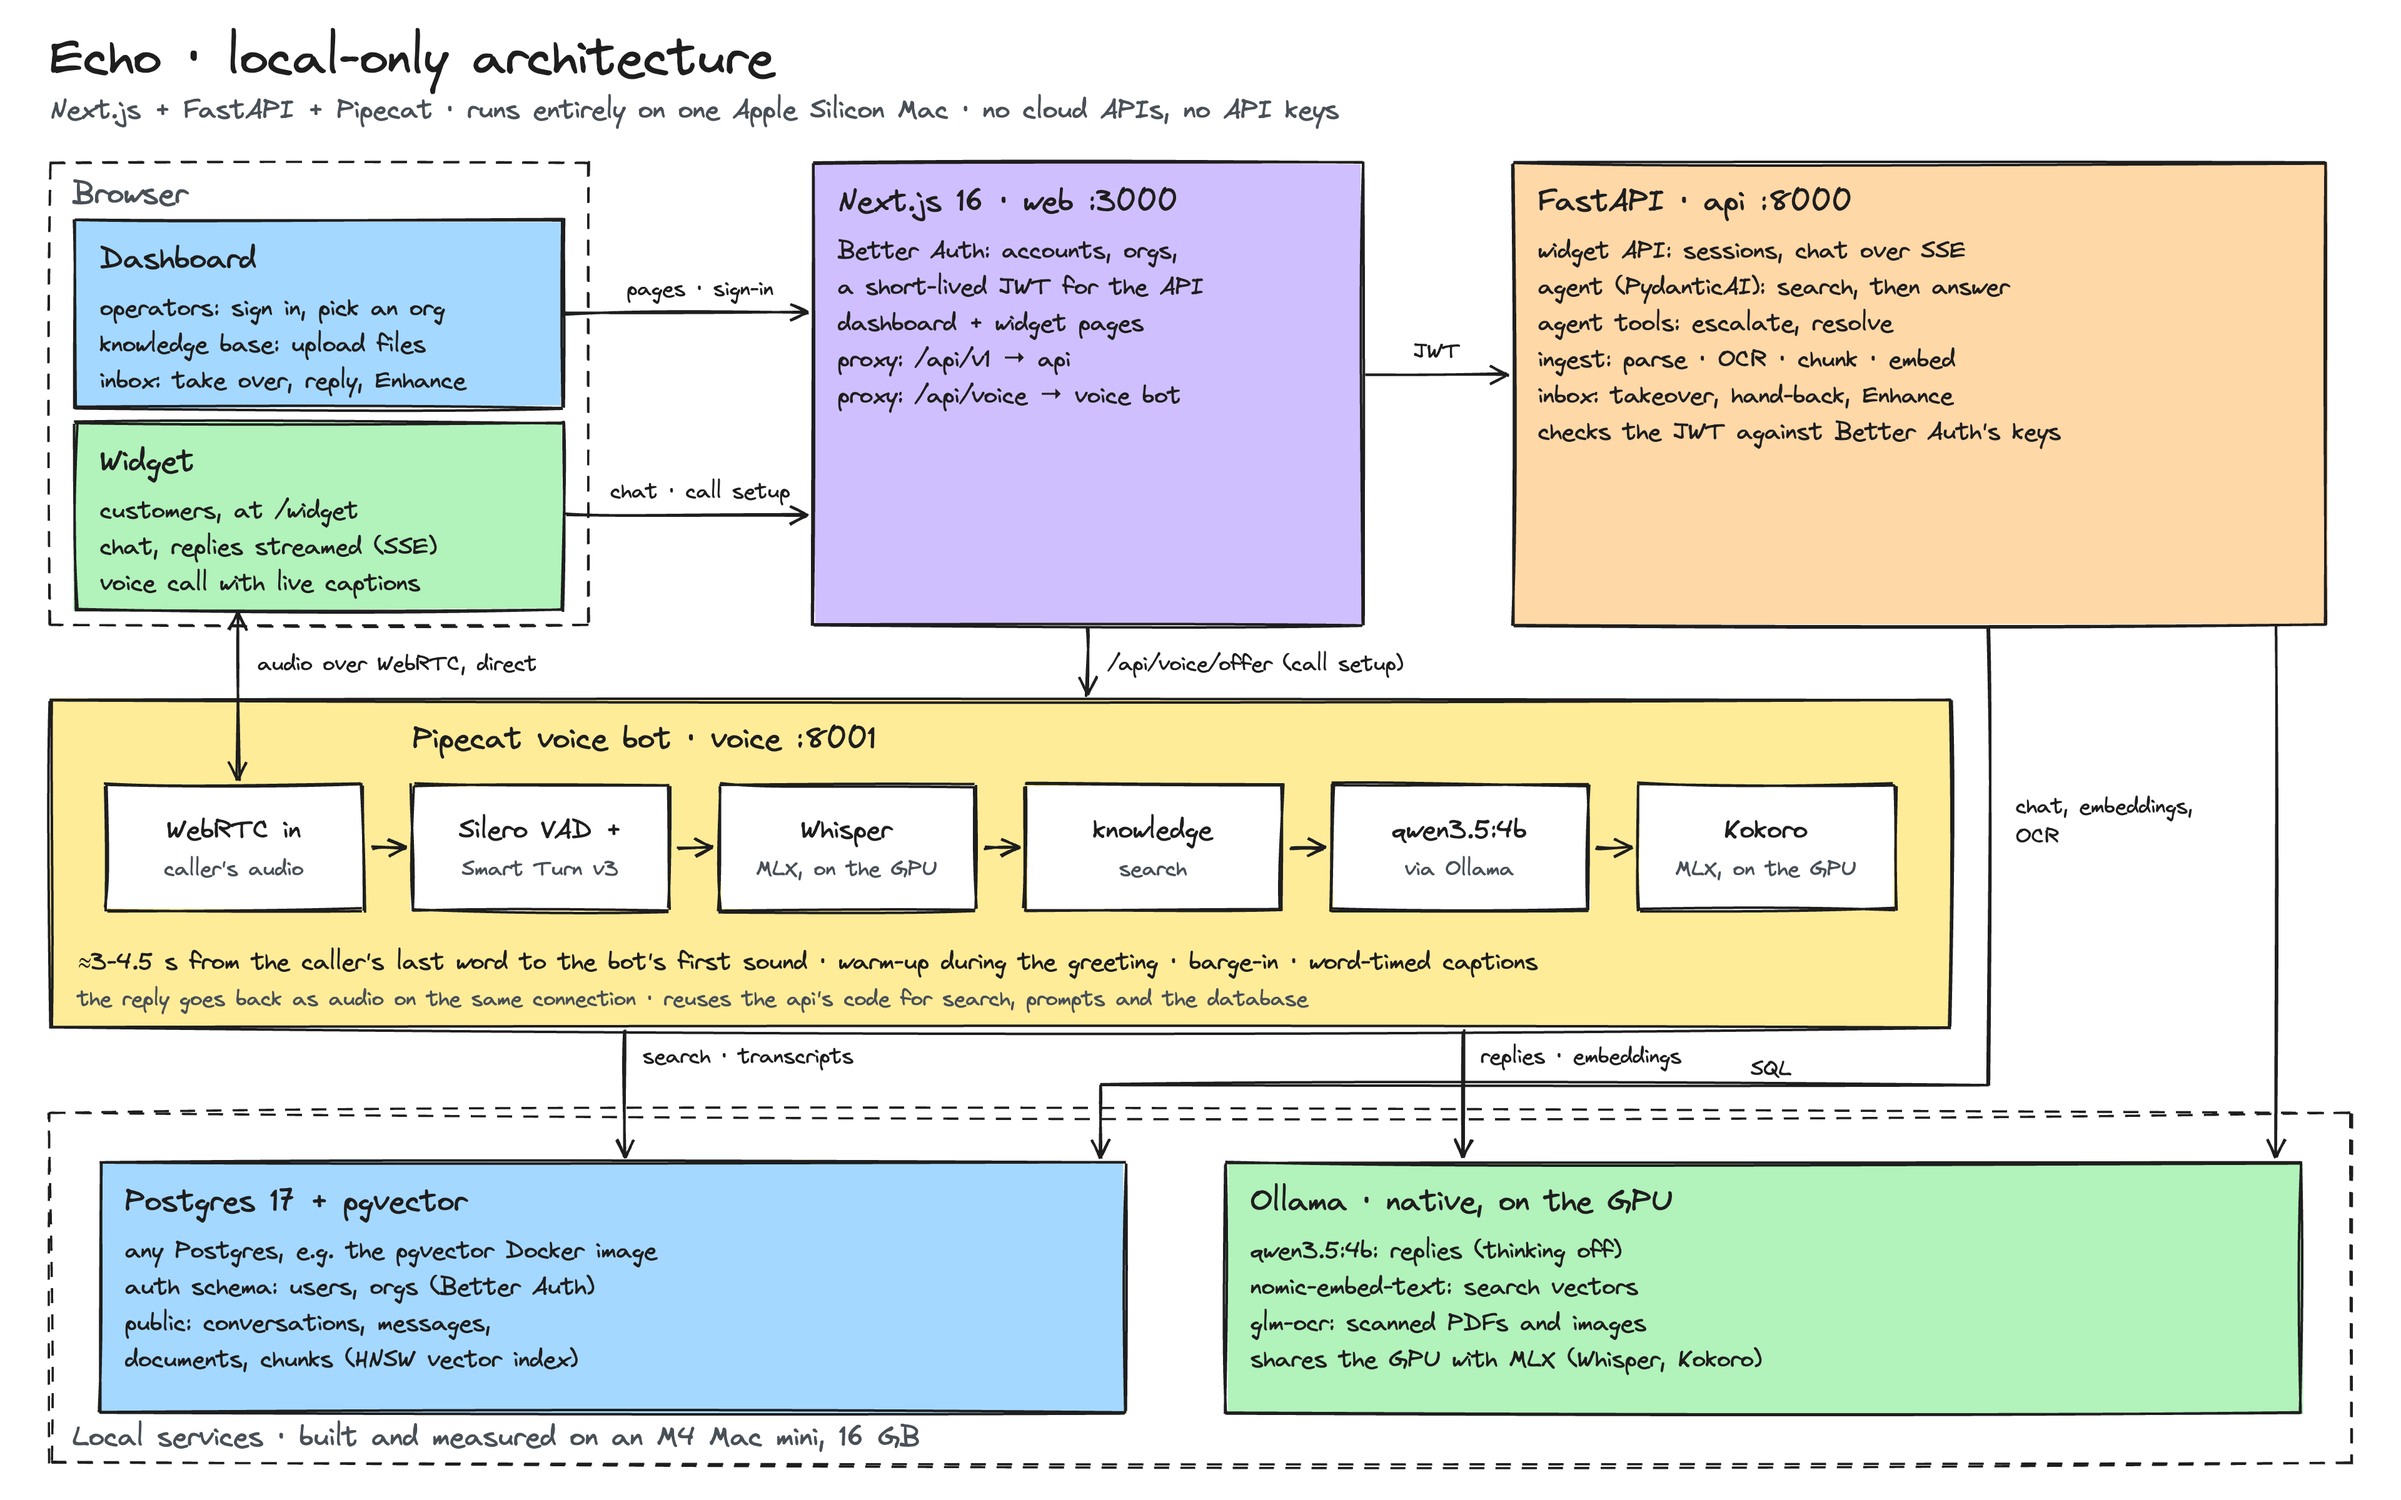
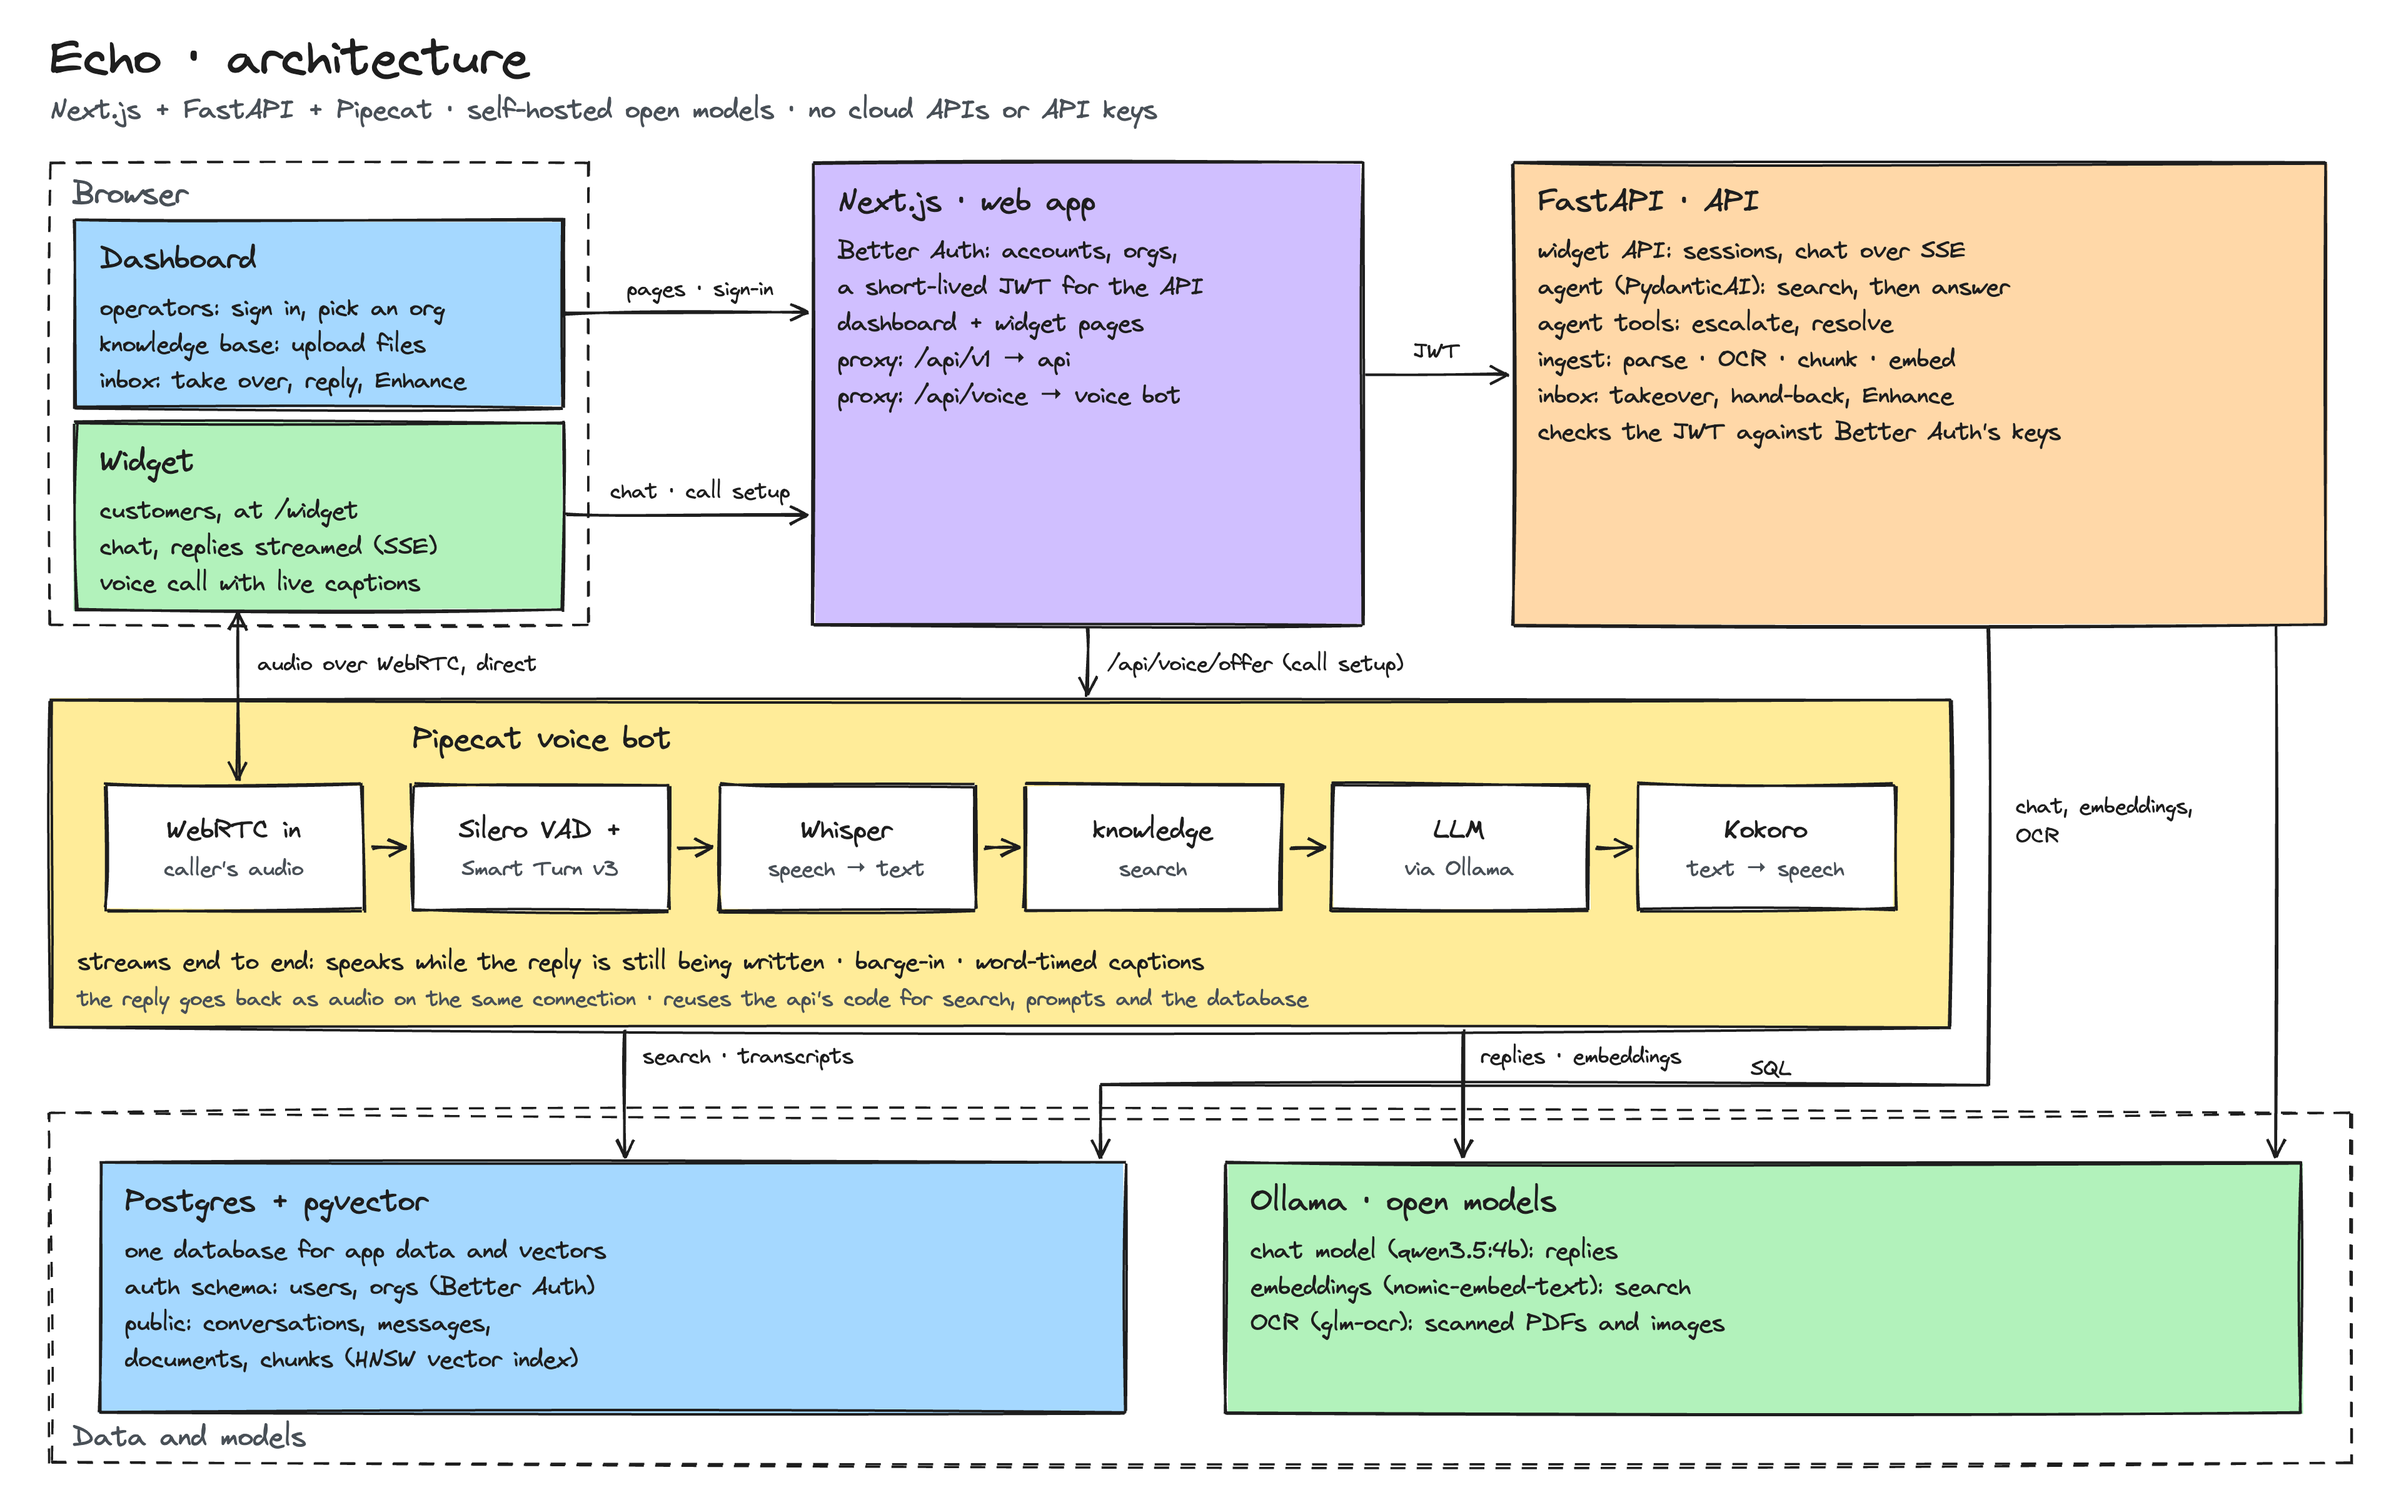
Generic architecture diagram; drop the homelab tooling from the repo
- The diagram names no machine, ports or measurements of this setup.
- lab.yml and .env.lab loading are gone: settings come from .env only.
- ref/ (the original template) is no longer referenced.

diff --git a/api/src/echo_api/config.py b/api/src/echo_api/config.py
@@ -11,13 +11,12 @@ REPO_ROOT = Path(__file__).resolve().parents[3]
 class Settings(BaseSettings):
     """Everything comes from environment variables.
 
-    `.env` at the repo root (see `.env.example`); `.env.lab`, if present, is
-    written by the author's homelab tool and loaded first. Real environment
-    variables win over both.
+    `.env` at the repo root (see `.env.example`). Real environment variables
+    win over it.
     """
 
     model_config = SettingsConfigDict(
-        env_file=(REPO_ROOT / ".env.lab", REPO_ROOT / ".env"),
+        env_file=REPO_ROOT / ".env",
         extra="ignore",
     )
 

diff --git a/README.md b/README.md
@@ -165,4 +165,3 @@ docs/    architecture diagram, sample knowledge base (used by make seed)
   pushed (instead of polled) updates, billing.
 - Python 3.13 (not 3.14) for the voice dependencies; TypeScript 6 and ESLint 9
   because typescript-eslint and eslint-plugin-react don't support 7 and 10 yet.
-- `lab.yml` is for the author's homelab tooling; `.env` is all you need.
